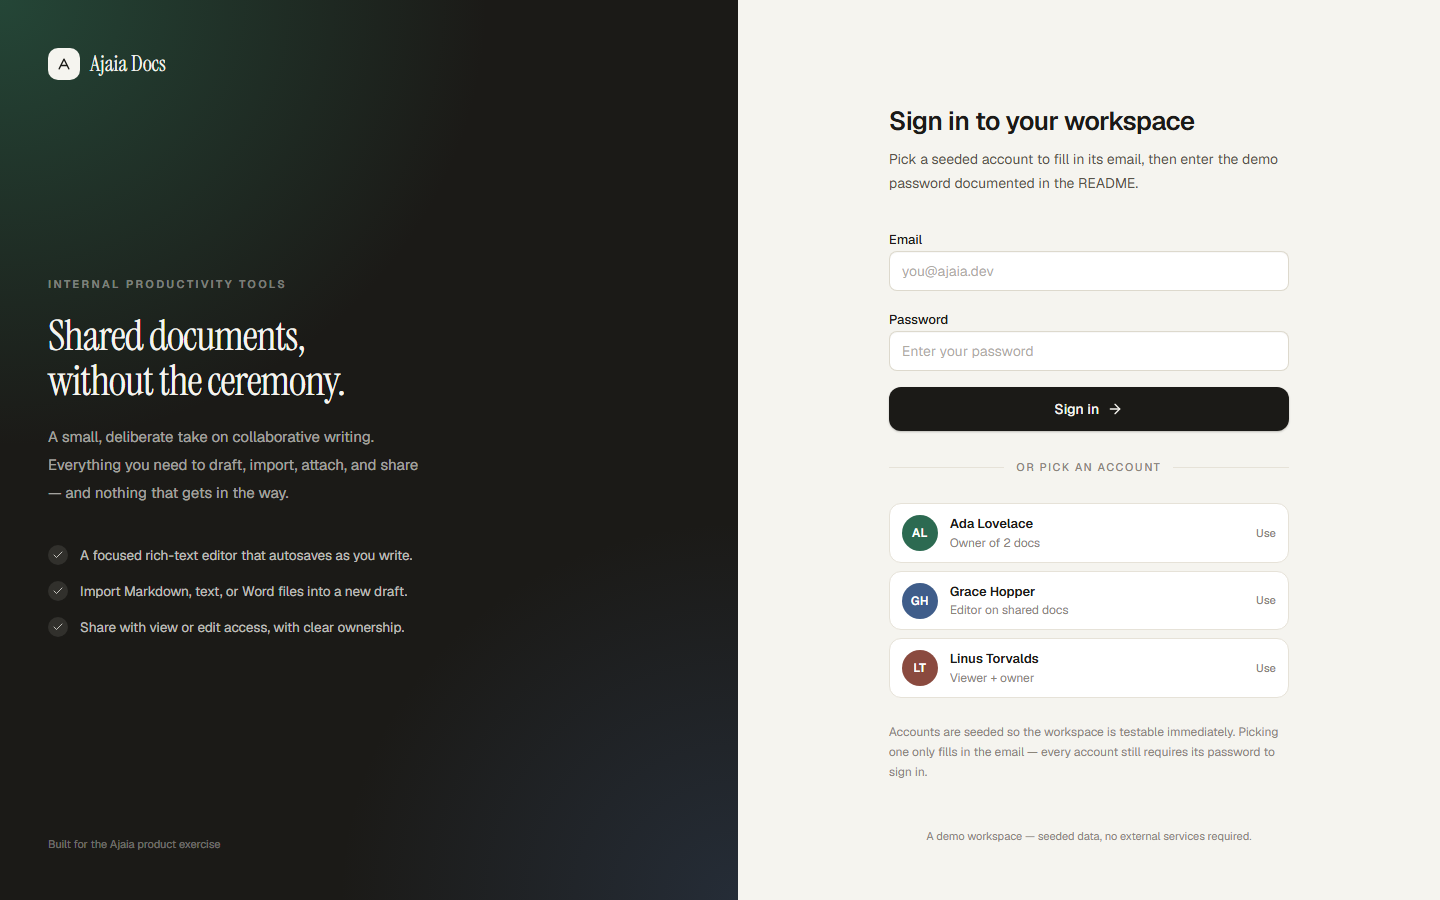
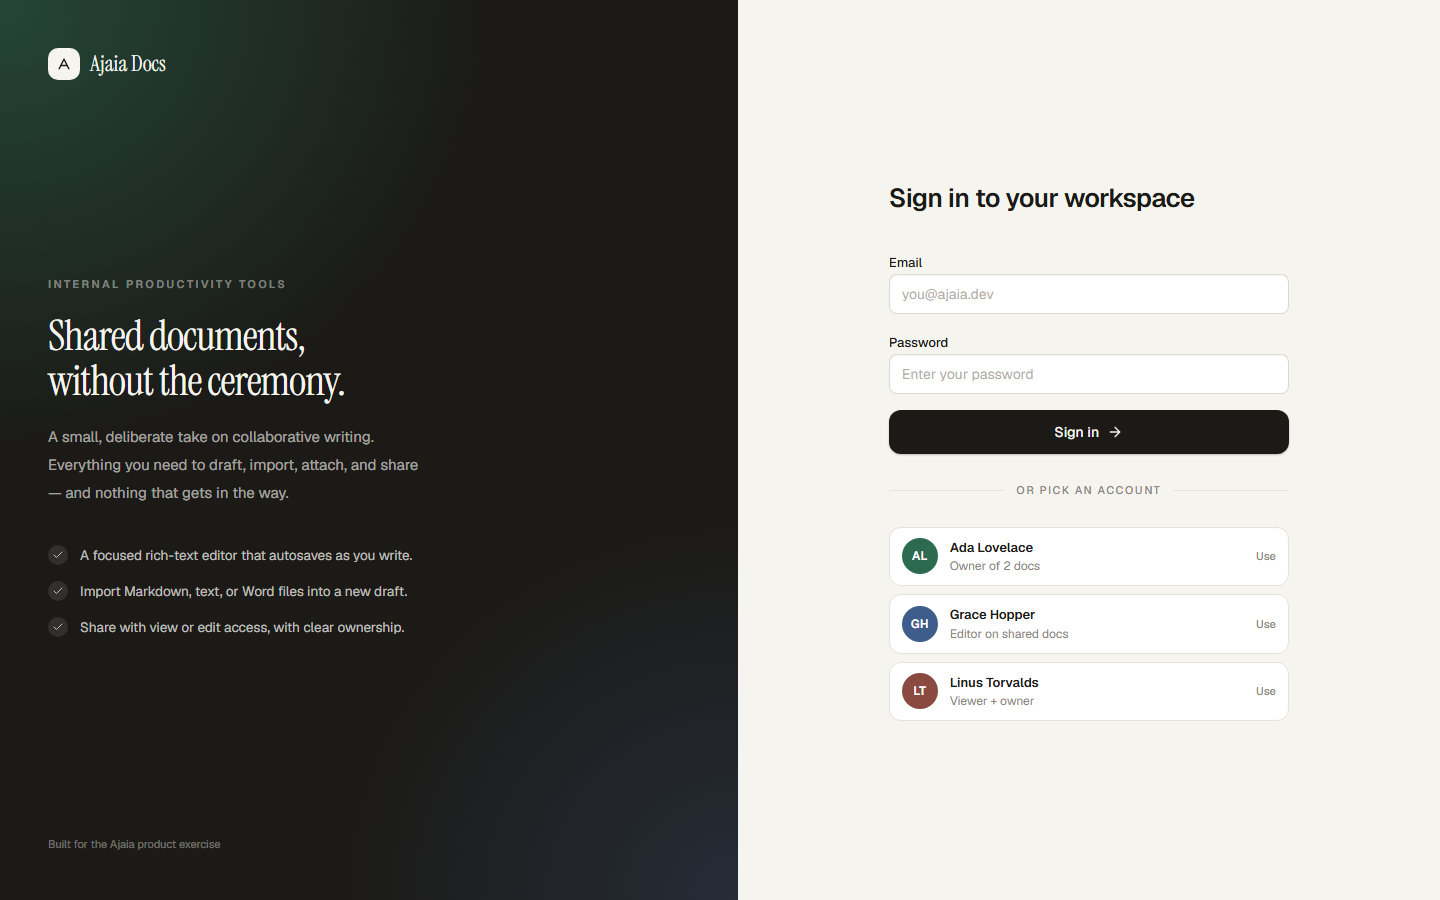
Strip explanatory copy from the sign-in screen
Removes the seeded-account subtitle, the footer note about passwords, and
the demo-workspace line so the page is heading, form, and accounts only.

Refreshes the login screenshot.

diff --git a/src/app/login/login-form.tsx b/src/app/login/login-form.tsx
@@ -68,10 +68,6 @@ export function LoginForm() {
     <div className="w-full">
       <div className="mb-8">
         <h1 className="text-[26px] font-semibold tracking-tight text-ink">Sign in to your workspace</h1>
-        <p className="mt-1.5 text-sm leading-6 text-ink-soft">
-          Pick a seeded account to fill in its email, then enter the demo password documented in the
-          README.
-        </p>
       </div>
 
       <form
@@ -184,11 +180,6 @@ export function LoginForm() {
           );
         })}
       </div>
-
-      <p className="mt-6 text-[12px] leading-5 text-ink-faint">
-        Accounts are seeded so the workspace is testable immediately. Picking one only fills in the
-        email — every account still requires its password to sign in.
-      </p>
     </div>
   );
 }

diff --git a/src/app/login/page.tsx b/src/app/login/page.tsx
@@ -81,10 +81,6 @@ export default async function LoginPage() {
             <LoginForm />
           </div>
         </div>
-
-        <p className="mt-10 text-center text-[11px] text-ink-faint lg:mt-0">
-          A demo workspace — seeded data, no external services required.
-        </p>
       </main>
     </div>
   );
